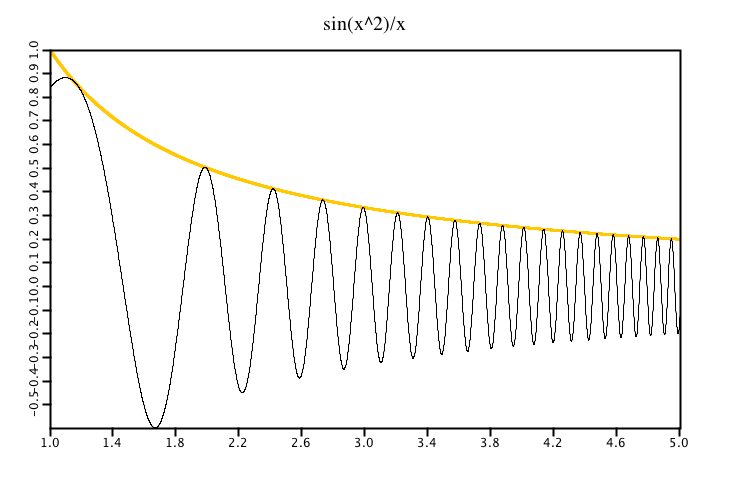
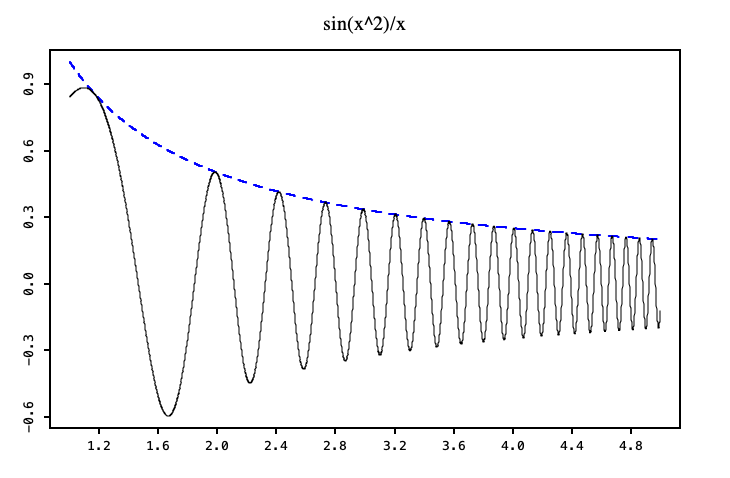
Fixed point plot invisible scatter plot issue. Updated docs.

diff --git a/src/main/paradox/Architecture.md b/src/main/paradox/Architecture.md
@@ -1,0 +1,141 @@
+# Architecture
+
+## Overview
+Central element of the SPlot library is object `Figure`. Plot elements are added to
+it and then it is either shown as interactive window or image generated directly
+that can later be saved on disk. By itself however `Figure` does not do much. It
+is really a skeleton which stitches together different objects required to form the
+actual image or window. All of these objects are responsible for drawing themselves,
+to which end they receive appropriate context and other parameters relevant to that
+particular object. Some of the elements can appear multiple times in `Figure` such
+as plots and labels that are added by using `Figure::add(...)` method and other
+elements referenced by `Figure` exist in singular form. These later objects refer to
+things like function that draws bounding box (a.k.a. spines of the figure) or
+function that draws ticks etc. They are all supplied to the `Figure` constructor with
+certain default values that can be changed to draw plots very differently. For
+example you could change the way bounding box is plotted to draw it with rounded
+corners or not draw bounding box at all. As a matter of fact default
+objects/functions passed to `Figure` constructor already allow certain customization,
+but creating your own custom versions gives complete freedom to modify figure drawing
+behaviour.
+
+## Pipeline Outline
+To form an image after all plot elements already added to `Figure` upon calling
+`crateImage(width, height)` or `show(width, height)` object `BufferedImage` is
+created and following pipeline of actions is executed that modifies that image:
+
+![](splot-pipeline-3.png)
+
+Each of the these steps from 1 to 9 are performed by externally supplied functions.
+Plot elements drawn in stage 2 are the only ones that users usually explicitly add to
+the figure. All other steps are performed by singularly referenced functions for
+which default instances already supplied into `Figure` during construction.
+
+## User-facing Figure Constructor Parameters
+
+Besides objects and functions responsible for fulfilling steps of the drawing
+pipeline users can pass following parameters to the `Figure` constructor:
+
+```scala
+name:          String = "Figure"
+title:         String = ""
+titleFont:     Font = Font.decode("Times-20")
+xLabel:        String = ""
+yLabel:        String = ""
+bgColor:       Color = Color.WHITE
+leftPadding:   Int = 50
+rightPadding:  Int = 50
+topPadding:    Int = 50
+bottomPadding: Int = 50
+antialiasing:  Boolean = true
+showGrid:      Boolean = false
+domain:        Option[(Double, Double)] = None
+range:         Option[(Double, Double)] = None
+xTicks:        (Double, Double) => Seq[(Double, String)] = Ticks.ticks10
+yTicks:        (Double, Double) => Seq[(Double, String)] = Ticks.ticks5
+```
+
+Based on these parameters prior to executing drawing pipeline `DrawingContext` object
+is created that contains all objects and functions required for pipeline steps to
+draw themselves. `DrawingContext` contains important figure dimensions distances
+`imageWidth, imageHeight, leftPadding, rightPadding, topPadding, bottomPadding: Int `
+and a set of functions and other objects. Following image provides visual illustration
+for that context of `DrawingContext`:
+
+![](AnatomyOfSPlotFigure.png)
+
+## Implicit Pipeline Step Functions
+
+Pipeline steps are provided by the following functions:
+
+1. Clear Background.
+
+```scala
+def backgroudPlotter(ctx: DrawingContext: bgColor: Color): Unit
+```
+
+2. Draw plot elements. Plot elements have three forms. Trait `Plot` for drawing lines
+and shapes, trait `Label` for drawing text labels and `CompositePlotElement` that contains
+sequence of the other two element types.
+
+```scala
+trait PlotElement
+
+trait Plot extends PlotElement {
+    def draw(ctx: DrawingContext): Unit
+}
+
+trait Label extends PlotElement {
+    def draw(g2: Graphics2D, atPosition: (Int, Int)): Unit
+}
+
+case class CompositePlotElement(plotElements: Seq[Either[Plot, Label]])
+    extends PlotElement
+```
+
+Note that plot elements are drawn in the order they were added to the figure
+and thus can obscure each other.
+
+3. Draw bounding box
+
+```scala
+def borderPlotter(ctx: DrawingContext, color: Color): Unit
+```
+
+4. Draw ticks. First we draw ticks on the x-axis and then on the y-axis.
+To that end we call following two functions
+
+```scala
+def xTicksPlotter(ctx: DrawingContext, ticks: Seq[(Double, String)]): Int
+```
+
+and
+
+```scala
+def yTicksPlotter(ctx: DrawingContext, ticks: Seq[(Double, String)]): Int
+```
+
+These functions are responsible for drawing the ticks and their labels. They
+must return height/length of the ticks together with labels. These values are
+later passed to `xLabelPlotter` and `yLabelPlotter` which use them to find
+proper placement for `x` and `y` labels.
+
+5. Draw grid
+
+```scala
+def gridPlotter(ctx: DrawingContext, xTicks: Seq[Int], yTicks: Seq[Int]): Unit
+```
+
+6. Draw `x` and `y` labels using following two functions.
+
+```scala
+def xLabelPlotter(ctx: DrawingContex, ticksLength: Int, text: String): Unit
+
+def yLabelPlotter(ctx: DrawingContex, ticksLength: Int, text: String): Unit
+```
+
+7. Draw figure title
+
+```scala
+def titlePlotter(DrawingContext, String, Font): Unit
+```

diff --git a/src/main/paradox/Examples/Simple_Line_Plot.md b/src/main/paradox/Examples/Simple_Line_Plot.md
@@ -7,15 +7,15 @@ import java.lang.Math.{pow, sin}
 import xyz.devfortress.splot._
 
 object SimpleLinePlotExample {
-  def f(x: Double) = sin(pow(x, 3)) / x
+  def f(x: Double): Double = sin(pow(x, 3)) / x
 
   def main(args: Array[String]): Unit = {
-    val fig = Figure(title = "sin(x^2)/x")
+    val fig = Figure(
+      title = "sin(x^2)/x",
+    )
     val xs = 1.0 to 5.0 by 0.001
 
-    # draw envelope function
-    fig.plot(xs.map(x => (x, 1/x)), color = "orange", lw = 2)
-
+    fig.plot(xs.map(x => (x, 1/x)), color = "blue", lw = 2, lt = "--")
     fig.plot(xs.map(x => (x, f(x))))
     fig.show(730, 500)
   }
@@ -23,15 +23,17 @@ object SimpleLinePlotExample {
 ```
 ![](simple-line-plot-1.png)
 
-Function that defined ticks did not do particularly good job and that.
-In particular ticks on the y-axis are way too close. Lets redefine them
-like so
+Notice that domain and range of the plot was automatically derived and some
+padding was added on both axis. Position of ticks was also automatically
+derived but we may want to set them explicitly. Let say we want to set them
+on the x-axis at points 1, 2, 3 and 4 and also show grid associated with
+them. We can do that like so:
 
 ```scala
 val fig = Figure(
-  title = "sin(x^3)/x",
-  xTicks = Ticks(1,2,3,4,5),
-  yTicks = Ticks(-0.5, 0, 0.5, 1)
+  title = "sin(x^2)/x",
+  showGrid = true,
+  xTicks = Ticks(1 to 4),
 )
 ```
 ![](simple-line-plot-2.png)
@@ -42,7 +44,7 @@ SPlot currently does not create automatic legends but we can add labels.
 fig.add(Label("sin(x^2)/x", 1.37, f(1.36), font = Font.decode("Times-18")))
 fig.add(Label(
   "1/x", 1.54, 1/1.5,
-  font = Font.decode("Serif-25").deriveFont(AffineTransform.getRotateInstance(0.49)),
+  font = Font.decode("Serif-25").deriveFont(AffineTransform.getRotateInstance(0.5)),
   color = Color.RED
 ))
 ```

diff --git a/src/main/paradox/Examples/Polygon_Plot.md b/src/main/paradox/Examples/Polygon_Plot.md
@@ -29,9 +29,10 @@ def main(args: Array[String]): Unit = {
     val populationIndex = city.population / maxPopulation
     fig.scatter(
       Seq(city.coordinates),
-      pt = "o", // using circle
+      pt = "o", // Using circle
+      fc = "blue", // This makes it a filled circle. 'fc' stands for 'fill color'
       ps=(30 * populationIndex).toInt, // circle size depends on population of the city
-      color = "blue"
+      color = "blue" // color of the rim of the circle is the same as fill color
     )
     fig add Label(
       city.name,
@@ -39,15 +40,14 @@ def main(args: Array[String]): Unit = {
       city.coordinates._2 + 0.5 * populationIndex, // slightly shift label upwards
       font = Font.decode("Serif-15")
                  .deriveFont(Font.BOLD)
-                 .deriveFont(AffineTransform.getRotateInstance(-Math.PI/2))
-    )
+                 .deriveFont(AffineTransform.getRotateInstance(-Math.PI/2)))
   }
 
   fig.show(730, 500)
 }
 ```
 
-![](texas-4.png)
+![](Texas.png)
 
 Data for Texas boundary and cities is:
 

diff --git a/src/main/paradox/Examples/Scatter_Plot.md b/src/main/paradox/Examples/Scatter_Plot.md
@@ -4,7 +4,6 @@ Lets plot two overlapping gaussian 2-dimensional distributions centered at
 `(-1.5, 0)` and `(1.5, 0)` using 200,000 data points.
 
 ```scala
-import java.awt.Color
 import java.util.Random
 
 import xyz.devfortress.splot._
@@ -21,7 +20,7 @@ def main(args: Array[String]): Unit = {
   val gs = (0 to 100000).map(_ => (rnd.nextGaussian() - 1.5, rnd.nextGaussian())) ++
     (0 to 100000).map(_ => (rnd.nextGaussian() + 1.5, rnd.nextGaussian()))
 
-  fig.scatter(gs, pt = "o")
+  fig.scatter(gs, pt = ".")
   fig.show(730, 500)
 }
 ```
@@ -36,8 +35,9 @@ and point size we can make dense scatter plot to reveal its internal structure. 
 that like so:
 
 ```scala
-// Alpha channel is set to 10. Fully opaque (default) value is 255.
-fig.scatter(gs, pt = "o", color = new Color(0, 0, 0, 10))
+// Alpha channel is set to 255 * fa. Fully opaque 'fa' (default) value is 1 and
+// fully transparent is 0.
+fig.scatter(gs, pt = ".", fa = 0.036)
 ```
 
 ![](scatter-plot-2.png)

diff --git a/src/main/paradox/index.md b/src/main/paradox/index.md
@@ -2,13 +2,14 @@
 
 @@@ index
 
+* [Architecture](Architecture.md)
 * [Examples](Examples/index.md)
-* [Scala Objects](Scala_Objects/index.md)
+<!--* [Scala Objects](Scala_Objects/index.md)-->
 
 @@@
 
 SPlot is a plotting library for Scala that aspires to provide the same level of functionality matplotlib does for
-Python users. At the moment it is far away from this goal but is already usable.
+Python users. At the moment it is far away from this goal but is already quite usable.
 
 ![](function-plot-small.png) ![](map-plot-small.png)
 
@@ -20,8 +21,6 @@ sbt
 maven
 : @@snip [pom.xml](snp/pom.xml) { }
 
-Source for the library is available through anonymous http.
+Source for the library is available here:
 
-```bash
-$ git clone http://git.devfortress.xyz/splot
-```
+[https://github.com/priimak/splot](https://github.com/priimak/splot)
